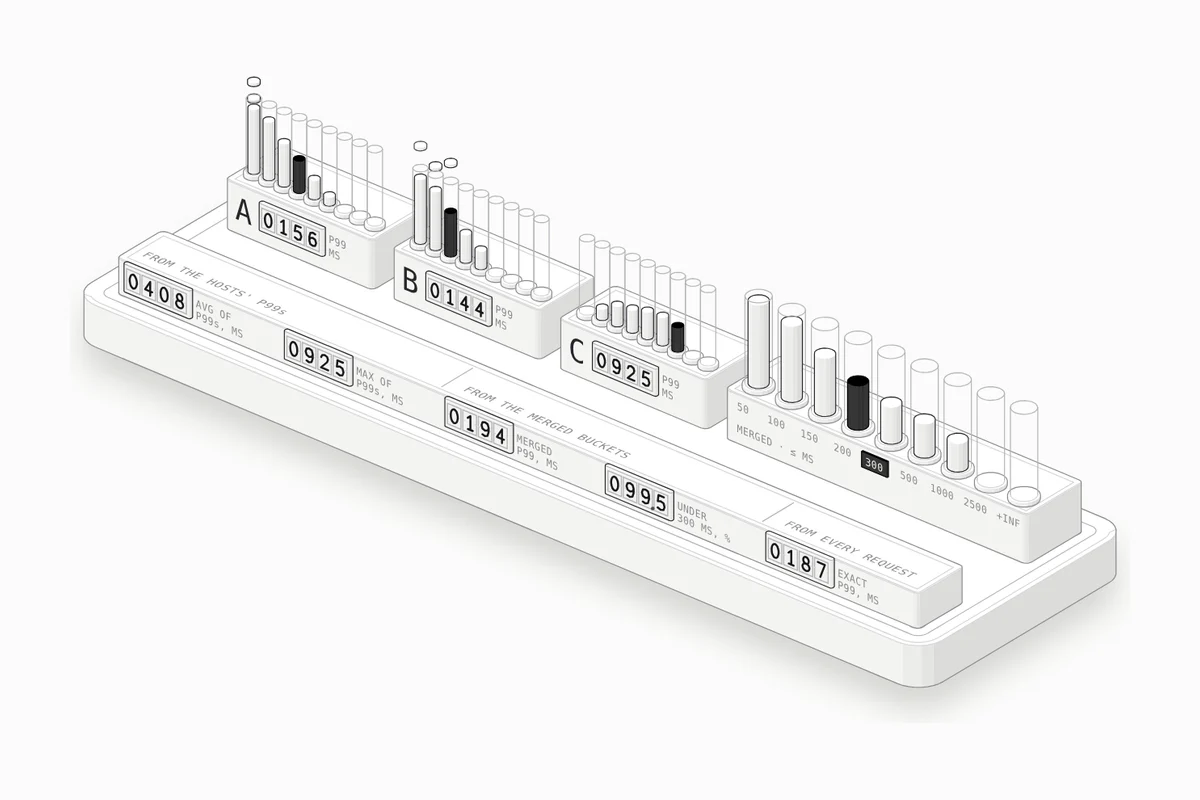
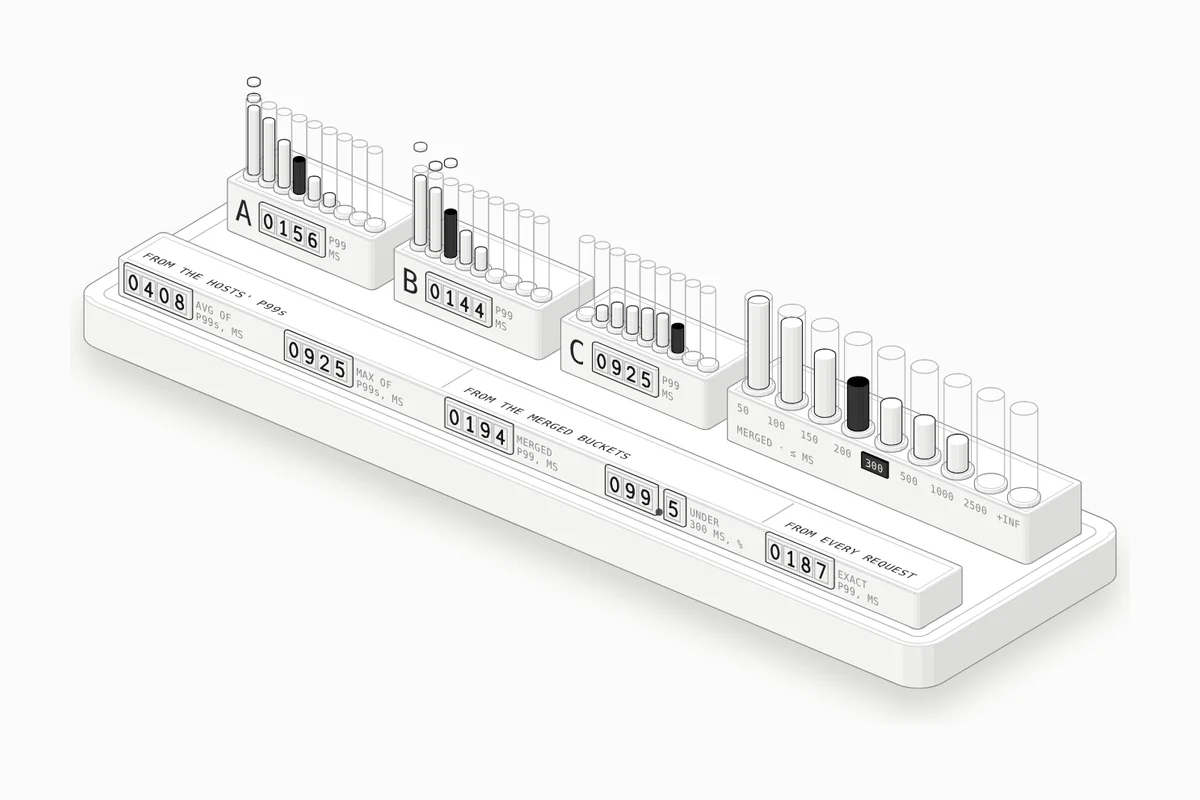
Lesson 74: a decimal point on the share counter; stronger desk-top labels
The share under 300 ms now reads 099.5 (three wheels, a point, a tenths
wheel, as lesson 35's score wheels) instead of 0995; the desk-top source
labels use the hi tone so they stand out on the foreshortened top in dark.

Claude-Session: https://claude.ai/code/session_01S5z2gCvevbrGU3fXgpGDmP

diff --git a/src/lessons/histograms/figure.ts b/src/lessons/histograms/figure.ts
@@ -147,15 +147,23 @@ function desk(first) {
   const c = DESK_COUNTER;
   SLOTS.forEach((key, i) => {
     const x = slotX(i) + c.dx;
-    out.push(digitCounter(P, { x, y: DESK_FACE, z: c.z, count: c.count, w: c.w, h: c.h, gap: c.gap, pad: c.pad, name: key, value: Math.min(9999, Math.round(values[key])) }));
-    if (key === "under") out.push(D([at([x + 3 * c.w + 2 * c.gap + c.gap / 2, DESK_FACE + 0.2, c.z + 0.5])], { size: 1.1, tone: "hi" }));
-    const cx = x + span(c) + c.pad + 2;
+    let end = x + span(c);
+    if (key === "under") {
+      // whole percent on three wheels, a decimal point, then the tenths on their own wheel (as lesson 35's score wheels)
+      const tenths = Math.round(values.under), whole = { ...c, count: 3 };
+      out.push(digitCounter(P, { x, y: DESK_FACE, z: c.z, count: 3, w: c.w, h: c.h, gap: c.gap, pad: c.pad, name: "under", value: Math.floor(tenths / 10) }));
+      const dotX = x + span(whole) + c.pad + 1.2;
+      out.push(D([at([dotX, DESK_FACE + 0.1, c.z + 0.4])], { size: 2.2, tone: "hi" }));
+      out.push(digitCounter(P, { x: dotX + 1.2 + c.pad, y: DESK_FACE, z: c.z, count: 1, w: c.w, h: c.h, gap: c.gap, pad: c.pad, name: "under-f", value: tenths % 10 }));
+      end = dotX + 1.2 + c.pad + c.w;
+    } else out.push(digitCounter(P, { x, y: DESK_FACE, z: c.z, count: c.count, w: c.w, h: c.h, gap: c.gap, pad: c.pad, name: key, value: Math.min(9999, Math.round(values[key])) }));
+    const cx = end + c.pad + 2;
     out.push(word(cx, DESK_FACE, 5.6, DESK_WORDS[key][0]), word(cx, DESK_FACE, 2.2, DESK_WORDS[key][1]));
   });
   // the sources, on the desk top, with a groove between groups
   const grooves = [];
   for (const [first, n, words] of SOURCES) {
-    out.push(word(slotX(first) + 4, DESK.y + DESK.d - 5, DESK_H, words, { face: "top", size: 3.6 }));
+    out.push(word(slotX(first) + 4, DESK.y + DESK.d - 5, DESK_H, words, { face: "top", size: 3.6, tone: "hi" }));
     if (first) grooves.push(k.lineOnTop([slotX(first) - 1, DESK.y + 3], [slotX(first) - 1, DESK.y + DESK.d - 3], DESK_H, P));
   }
   out.push(L(grooves.join(""), { tone: "lo" }));

diff --git a/src/lessons/histograms/live.ts b/src/lessons/histograms/live.ts
@@ -19,7 +19,7 @@ export default function mount({ P, G, CHIP, SLIP, SCRAPE, CHIP_EVERY }, root) {
   const NS = "http://www.w3.org/2000/svg";
   const chipsLayer = q('[data-layer="chips"]'), slipsLayer = q('[data-layer="slips"]');
   const hostCounters = [0, 1, 2].map((i) => WB.counter(svg, "p99-" + i, P));
-  const desk = Object.fromEntries(["avg", "max", "est", "exact", "under"].map((n) => [n, WB.counter(svg, n, P)]));
+  const desk = Object.fromEntries(["avg", "max", "est", "exact", "under", "under-f"].map((n) => [n, WB.counter(svg, n, P)]));
   const NREF = RATE * WINDOW, FLIGHT = 1.6, FALL = 0.55, MAX_CHIPS = 36;
   const spec = (i) => (i === 3 ? G.TUBE.M : G.TUBE.host);
   // Per layout: the tube groups and the fill group of every tube, rack by rack.
@@ -81,7 +81,8 @@ export default function mount({ P, G, CHIP, SLIP, SCRAPE, CHIP_EVERY }, root) {
     const s = dash;
     drawRack(3, s.merged, s.estBucket, true);
     desk.avg.setClamped(Math.round(s.avg)); desk.max.setClamped(Math.round(s.max)); desk.est.setClamped(Math.round(s.est)); desk.exact.setClamped(Math.round(s.exact));
-    desk.under.setClamped(Math.round(1000 * s.underBuckets));
+    const tenths = Math.round(1000 * s.underBuckets);
+    desk.under.setClamped(Math.floor(tenths / 10)); desk["under-f"].set(tenths % 10);
     stat("avg", ms(s.avg)); stat("max", ms(s.max)); stat("est", ms(s.est)); stat("exact", ms(s.exact));
     stat("under", pc(s.underBuckets)); stat("underx", pc(s.underExact));
   }
